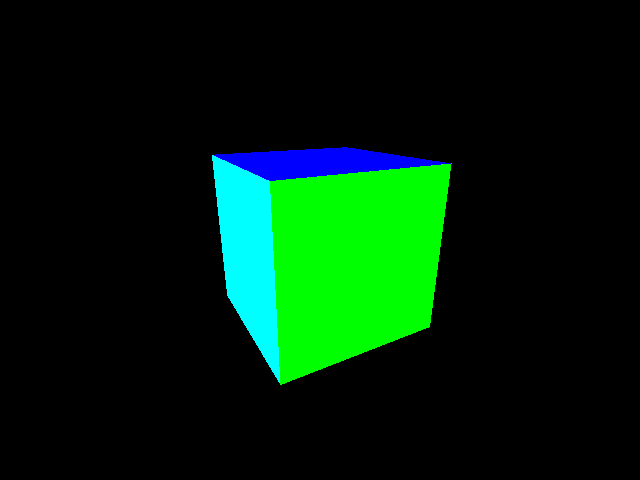
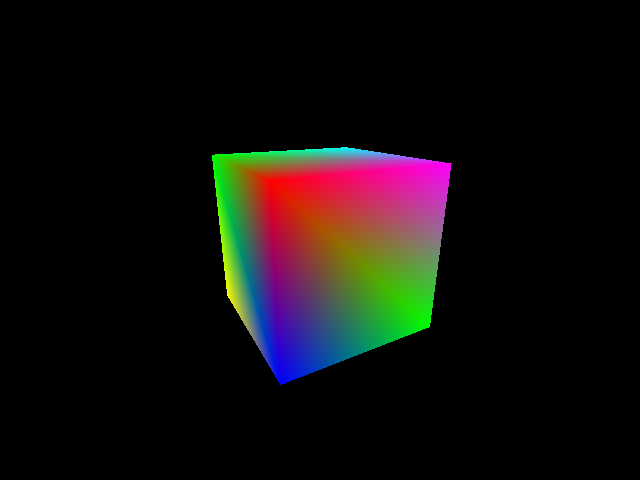
First stab at a generic shader framework using templates. Vertex color interpolation.

Changed region(s): [[0.3125, 0.2812, 0.7188, 0.8125]]

diff --git a/msvc/test/main.cpp b/msvc/test/main.cpp
@@ -6,6 +6,29 @@
 #include "quat.h"
 #include "triangle.h"
 #include "rasterize.h"
+#include "image.h"
+
+void toImage(Array2D<Vec> const &colors, Array2D<float> const &zbuffer, Image &img)
+{
+	for (int y = 0; y < colors.rows(); ++y)
+	{
+		for (int x = 0; x < colors.columns(); ++x)
+		{
+			if (zbuffer(y, x) == std::numeric_limits<float>::max())
+			{
+				img(x, y) = ColorRGBA(0, 0, 0);
+			}
+			else
+			{
+				Vec col = 255 * colors(y, x);
+				img(y, x) = ColorRGBA(
+					clamp<unsigned char, float>(col.x),
+					clamp<unsigned char, float>(col.y),
+					clamp<unsigned char, float>(col.z));
+			}
+		}
+	}
+}
 
 void rotateCube(sf::RenderWindow &window)
 {
@@ -39,13 +62,19 @@ void rotateCube(sf::RenderWindow &window)
 		0, 5, 1
 	};
 
-	ColorRGBA faceColors[] = {
-		ColorRGBA(255, 0, 0),
-		ColorRGBA(0, 255, 0),
-		ColorRGBA(0, 0, 255),
-		ColorRGBA(255, 255, 0),
-		ColorRGBA(0, 255, 255),
-		ColorRGBA(255, 0, 255)
+	Vec vertColors[] = {
+		Vec(1, 0, 0),
+		Vec(0, 1, 0),
+		Vec(0, 0, 1),
+		Vec(1, 1, 0),
+		Vec(0, 1, 1),
+		Vec(1, 0, 1),
+		Vec(1, 0, 0),
+		Vec(0, 1, 0),
+		Vec(0, 0, 1),
+		Vec(1, 1, 0),
+		Vec(0, 1, 1),
+		Vec(1, 0, 1)
 	};
 
 	Line cubeLines[] = {
@@ -72,11 +101,12 @@ void rotateCube(sf::RenderWindow &window)
 
 	sf::Texture screen;
 	screen.create(width, height);
-	Image im(width, height);
 	sf::Sprite sprite;
 	sprite.setTexture(screen);
 
-	Array2D<float> zbuffer(width, height);
+	Array2D<float> zbuffer(height, width);
+	Array2D<Vec> colors(height, width);
+	Image im(width, height);
 
 	int counter = 0;
 
@@ -108,6 +138,7 @@ void rotateCube(sf::RenderWindow &window)
 		{
 			int *tri = cubeTris + (3 * i);
 			Triangle t(cubeVerts[tri[0]], cubeVerts[tri[1]], cubeVerts[tri[2]]);
+			Vec triColors[] = { vertColors[tri[0]], vertColors[tri[1]], vertColors[tri[2]] };
 
 			for (auto it = t.asVecs(); it < t.asVecs() + 3; ++it)
 			{
@@ -116,8 +147,10 @@ void rotateCube(sf::RenderWindow &window)
 				*it = toScreen * (*it);
 			}
 
-			rasterize(t, zbuffer, im, faceColors[i / 2]);
+			rasterize(t, triColors, zbuffer, colors);
 		}
+
+		toImage(colors, zbuffer, im);
 
 		screen.update((sf::Uint8 const *)im.raw(), width, height, 0, 0);
 

diff --git a/rasterize.h b/rasterize.h
@@ -1,22 +1,26 @@
 #include "vec.h"
 #include "array2d.h"
-#include "image.h"
 #include "util.h"
 #include "triangle.h"
 
-float zinterp(Triangle const &t, Vec const &bary)
+template <typename T>
+T baryInterp(T const &a, T const &b, T const &c, Vec const &bary)
 {
-	float z =
-		t.a.z * bary.x +
-		t.b.z * bary.y +
-		t.c.z * bary.z;
-
-	return z;
+	return bary.x * a + bary.y * b + bary.z * c;
 }
 
+float zinterp(Triangle const &t, Vec const &bary)
+{
+	return baryInterp(t.a.z, t.b.z, t.c.z, bary);
+}
+
+// Interpolants must define operator+ and operator*(float, Interpolants)
+// not sure how I like this but we'll see
 // vecs should already be in image space
 // (not just projection space)
-void rasterize(Triangle const &t, Array2D<float> &zbuf, Image &view, ColorRGBA color)
+
+template <typename Interpolants>
+void rasterize(Triangle const &t, Interpolants *interps, Array2D<float> &zbuf, Array2D<Interpolants> &fragments)
 {	
 	auto bbox = bounds(t.asVecs(), t.asVecs() + 3);
 	Vec mins = bbox.first;
@@ -43,7 +47,7 @@ void rasterize(Triangle const &t, Array2D<float> &zbuf, Image &view, ColorRGBA c
 			if (pt.z < zbuf(x, y))
 			{
 				zbuf(x, y) = pt.z;
-				view(x, y) = color;
+				fragments(x, y) = baryInterp(interps[0], interps[1], interps[2], bary);
 			}
 		}
 	}

diff --git a/util.h b/util.h
@@ -15,35 +15,32 @@ T min(T const &a, T const &b)
 }
 
 template <typename T, typename Big>
-T clampAdd(T a, T b)
+T clamp(Big big)
 {
-	Big add = (Big)a + (Big)b;
 	T max = std::numeric_limits<T>::max();
 	T min = std::numeric_limits<T>::min();
 
-	if (add < (Big)min)
+	if (big < (Big)min)
 		return min;
 
-	if (add > (Big)max)
+	if (big > (Big)max)
 		return max;
 
-	return (T)add;
+	return (T)big;
+}
+
+template <typename T, typename Big>
+T clampAdd(T a, T b)
+{
+	Big add = (Big)a + (Big)b;
+	return clamp<T, Big>(add);
 }
 
 template <typename T, typename Big>
 T clampSubtract(T a, T b)
 {
 	Big subtract = (Big)a - (Big)b;
-	T max = std::numeric_limits<T>::max();
-	T min = std::numeric_limits<T>::min();
-
-	if (subtract < (Big)min)
-		return min;
-
-	if (subtract > (Big)max)
-		return max;
-
-	return (T)subtract;
+	return clamp<T, Big>(subtract);
 }
 
 static const double PI = 3.14159265358979323846264338327950288;

diff --git a/array2d.h b/array2d.h
@@ -135,6 +135,11 @@ public:
 		return columns_;
 	}
 
+	size_t size() const
+	{
+		return rows() * columns();
+	}
+
 	size_t to1D(size_t row, size_t column) const
 	{
 		return row * columns_ + column;

diff --git a/projection.h b/projection.h
@@ -1,7 +1,6 @@
 #pragma once
 
 #include "camera.h"
-#include "image.h"
 
 
 Mat parallelProjection(Camera const &camera)
